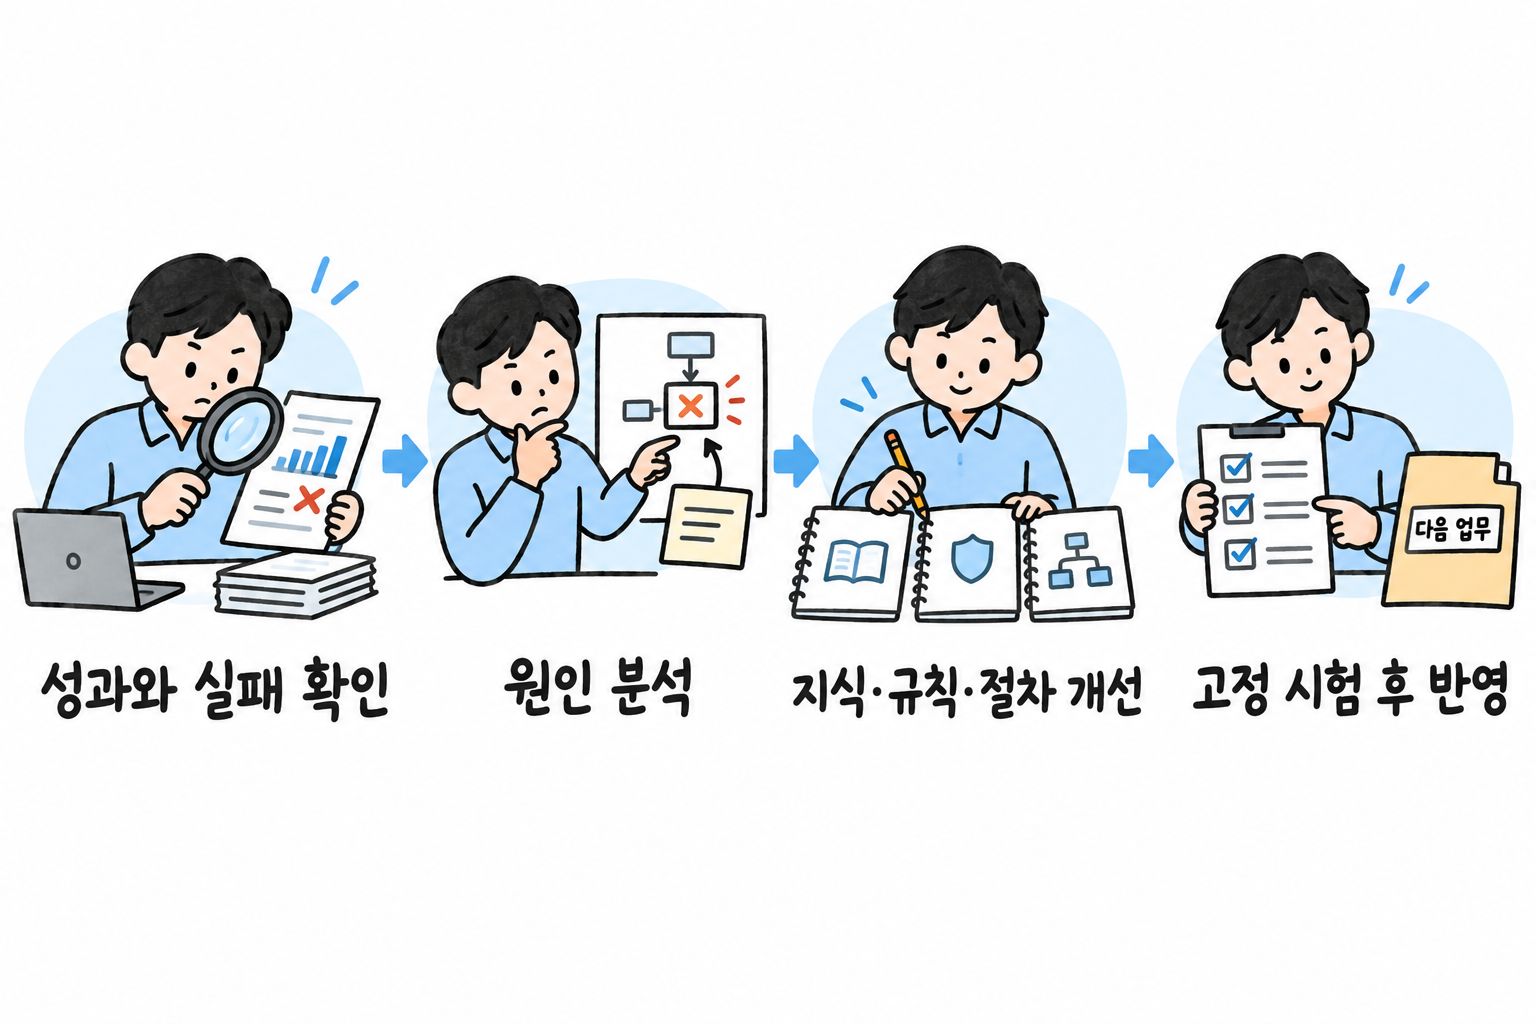
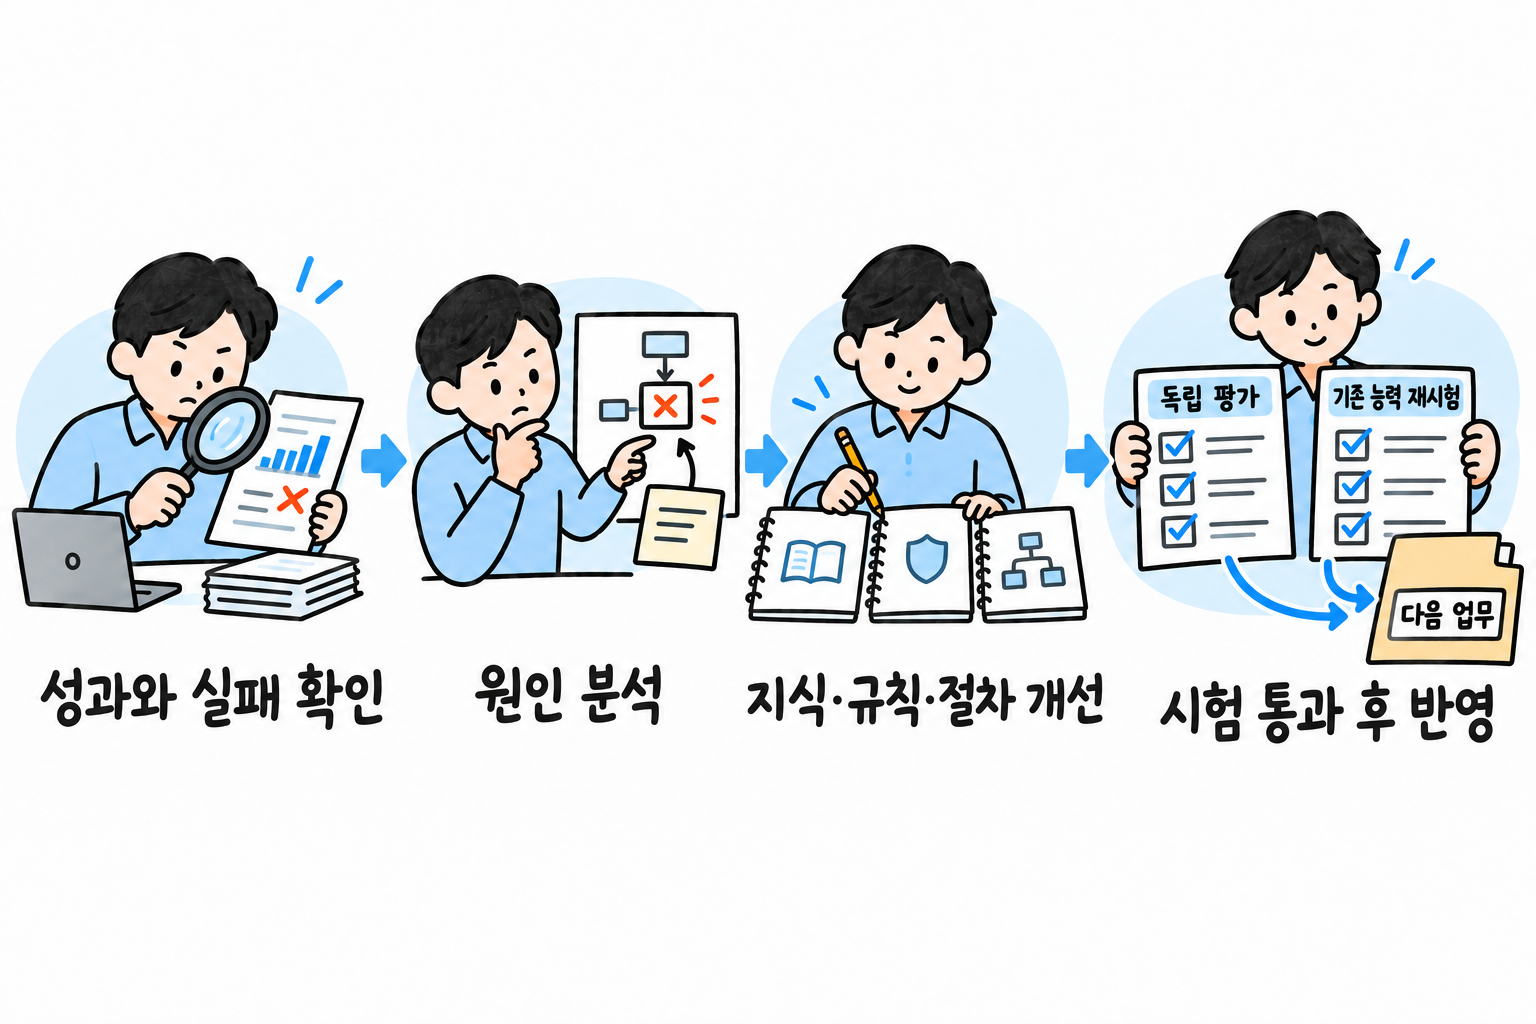
docs/images/expert-definition/learning-improvement.png 외 8개 수정

Changed region(s): [[0.0, 0.1875, 1.0, 0.7188]]

diff --git a/docs/images/material-confirmed/생성-프롬프트.md b/docs/images/material-confirmed/생성-프롬프트.md
@@ -6,6 +6,8 @@
 
 공통 화풍과 아래 개별 장면을 합쳐 생성했다. 실제 입력 전문, 원본 경로, 수정 이력은 [manifest.json](manifest.json)에 있다.
 
+각 항목의 장면 설명은 최초 생성 기록이며, 뒤에 수정 프롬프트가 있으면 마지막 수정본이 현재 적용본이다.
+
 ## 공통 화풍
 
 한국어 업무 문서의 설명 일러스트. 가로 3:2, 1536×1024. 기존 프로젝트와 동일한 친근한 일본 설명 일러스트풍의 정교한 손그림. 굵지만 부드러운 짙은 차콜 윤곽선, 검은 머리의 성인 업무 담당자, 하늘색 재킷, 흰 옷, 밝은 하늘색과 연한 노랑 소품. 모서리까지 불투명 흰 배경. 단순하고 넉넉한 여백, 장면별로 핵심 행동과 물건을 크게 보여 준다. 텍스트는 지정한 짧은 라벨만 크고 또렷한 검은 한국어 둥근 손글씨. 큰 상단 제목, 부제, 하단 표어, 번호, 장문, 영어 장식, 워터마크, 로고 없음. 문서 속 잔글씨는 회색 선. 사진·3D·네온·보라·복잡한 장식 금지. 인물은 두 팔 두 손만, 소품과 글자 잘림 없음. 주어진 본문의 핵심 관계에 정확할 것.
@@ -96,6 +98,10 @@
 
 주제: 자료의 시점·버전. 세 장면. 적용 시작을 나타내는 달력, 실제로 새 자료를 받은 뒤 기록하는 두 번째 달력, 오른쪽 과거 시점의 책장으로 돌아가 그때 알고 있던 판본만 꺼내는 담당자. 두 날짜가 다름을 위치 차이로 보여 주고 날짜 숫자 없음.
 이미지 속 문구는 다음 3개만 사용: "적용된 때", "알게 된 때", "당시 버전". 각 문구는 해당 장면 가까이에 크게 배치. 관계상 순서가 맞을 때만 작은 하늘색 화살표.
+
+### 2026-10-22 후속 수정
+
+첨부된 한국어 설명 일러스트를 편집한다. 기존의 흰 배경, 하늘색 재킷을 입은 검은 머리 성인 여성, 차콜 손그림, 연노랑 라벨과 3:2 화면 및 큼직한 글자를 그대로 유지. 핵심 수정: '적용된 때'와 '알게 된 때'는 순서가 아니라 서로 독립적으로 저장하는 두 시간 기준이다. 첫 장면과 두 번째 장면 사이의 화살표를 완전히 없앤다. 왼쪽과 가운데는 각각 별도의 달력과 문서를 확인하는 장면으로 유지하되, 라벨을 정확히 '적용 시점', '알게 된 시점'으로 바꾼다. 두 장면 아래에 같은 높이의 짧은 연결선을 내려 하나의 얇은 묶음선으로 모으고, 거기서 오른쪽의 버전 선택 장면으로만 작은 하늘색 화살표 한 개를 보낸다. 이 묶음선은 인물이나 글자를 가리지 않아야 하며 두 시간 기준을 함께 대조한다는 뜻이다. 오른쪽은 책장에서 당시 쓸 판본을 고르는 기존 인물과 '당시 버전' 라벨을 유지한다. 모든 달력은 숫자 없이 회색 칸과 강조칸으로 표현. 적용 시점이 항상 먼저이고 알게 된 시점이 항상 나중이라는 시간 순서나 번호를 만들지 않는다. 상단의 세 문구 외 읽을 수 있는 새 글자, 부제, 주석은 넣지 않는다. 인물의 손·얼굴과 기존 여백은 자연스럽게 유지한다. 1536x1024 불투명 흰 배경.
 
 ## 13. 규칙·기준 원문
 
@@ -268,6 +274,10 @@
 
 주제: 지시·의도 파악. 고객과 담당자가 대화하며 원하는 결과물 그림을 가리킨다. 가운데 접수표에 범위·기한을 그림으로 정리. 마지막 이미 정한 것은 체크하고 비어 있는 한 조건만 작은 물음표로 질문한다.
 이미지 속 문구는 다음 3개만 사용: "요청과 맥락", "맡은 범위", "필수 질문". 각 문구는 해당 장면 가까이에 크게 배치. 관계상 순서가 맞을 때만 작은 하늘색 화살표.
+
+### 2026-10-22 후속 수정
+
+첨부 한국어 설명 일러스트를 부분 수정한다. 기존 여성 의뢰자와 남성 담당자, 하늘색·연노랑·차콜 손그림 화풍, 흰 배경과 가로 세 장면 구성은 유지한다. '요청과 맥락', '맡은 범위' 두 라벨 및 그 아래 장면은 그대로 유지. 마지막 '필수 질문'이라는 제목을 없애고 '중요한 미확인만 질문'으로 바꾸되, 넉넉하게 두 줄로 '중요한 미확인만' / '질문'을 써서 크고 또렷하게 한다. 가운데에서 오른쪽으로 무조건 질문에 이르는 화살표는 없앤다. 오른쪽 영역의 체크리스트를 살려, 이미 확인한 세 항목의 초록 체크에는 작은 연결선이 위쪽의 노트북 작업 아이콘으로 이어지고 그 옆에 '확인된 일은 진행'이라고 명확하게 쓴다. 체크리스트의 맨 아래 중요한 미확인 한 항목만 노란 강조와 물음표로 표시하고, 담당자가 그 항목을 가리키며 짧은 질문 말풍선에 물음표 하나를 넣는다. 질문하는 조건과 이미 확인한 일을 진행하는 상태가 동시에 읽혀야 한다. 모든 자료를 다시 질문하거나 질문 답을 기다리느라 전체 업무가 멈추는 표현 금지. 기존 문서 속 장식 글은 회색 가로선 유지, 영어·숫자 추가 금지. 추가 문구는 '확인된 일은 진행' 하나만 사용. 1536x1024 불투명 흰 배경.
 
 ## 41. 대안·전략 판단
 
@@ -451,6 +461,10 @@
 
 주제: 관찰·측정. 측정 도구가 실제 물체를 재는 장면, 측정값이 단위·시각 아이콘과 함께 기록표로 이동, 담당자가 교정 기준과 측정 오차 범위를 대조. AI가 눈대중으로 숫자를 만드는 모습 금지.
 이미지 속 문구는 다음 3개만 사용: "장비·방법", "값·단위·시각", "오차 확인". 각 문구는 해당 장면 가까이에 크게 배치. 관계상 순서가 맞을 때만 작은 하늘색 화살표.
+
+### 2026-10-22 후속 수정
+
+첨부 일러스트를 같은 화풍으로 수정한다. 검은 머리 성인 여성과 하늘색 재킷, 차콜 손그림 윤곽, 연노랑 라벨, 불투명 흰 배경, 가로 세 장면 구성과 1536x1024 크기를 유지한다. AI 담당자는 현장에서 실물을 직접 재는 사람이 아니라 장비나 원래 시스템이 측정한 값을 받아 사용하는 역할이다. 캘리퍼스·측정 공구·금속 부품·실물 치수 도면을 모두 제거하고 모든 장면을 컴퓨터 업무로 바꾼다. 왼쪽: '측정값 받기'. 담당자가 노트북에서 외부 장비 또는 원래 시스템이 보내온 측정 기록을 받는다. 작은 센서/서버 아이콘에서 데이터 문서 카드가 화면으로 들어오는 화살표로 연결하고, 담당자는 키보드·마우스만 사용한다. 가운데: '단위·시각 기록'. 측정 원본 표와 단위 표식, 서로 구분된 두 시계 아이콘을 기록에 연결. 두 시계에만 작은 글자로 '측정 시각', '수신 시각'을 쓴다. 오른쪽: '신뢰성 확인'. 담당자가 화면의 측정 기록과 교정 확인 문서, 불확도 범위를 나타내는 점과 양옆 막대, 장비 상태를 대조한다. 불확도 범위와 업무 허용 범위를 같은 것으로 그리지 않는다. 모든 숫자와 임의의 구체적인 이름·시간·치수는 회색 가로선으로 표현한다. 물리적 측정을 새로 수행하거나 눈으로 추정한 숫자를 만드는 장면은 없다. 세 장면 사이에는 작은 하늘색 화살표. 정확한 문구 다섯 개만: '측정값 받기', '단위·시각 기록', '신뢰성 확인', '측정 시각', '수신 시각'. 자연스러운 두 팔과 두 손, 넉넉한 여백, 화면과 글자 잘림 없음.
 
 ## 67. 실험
 

diff --git a/docs/images/expert-definition/생성-프롬프트.md b/docs/images/expert-definition/생성-프롬프트.md
@@ -132,9 +132,9 @@
 ## 학습·개선
 
 - 파일: [learning-improvement.png](learning-improvement.png)
-- 대체 설명: 실제 성과와 실패를 확인하고 원인을 분석한 뒤 지식·규칙·절차를 개선하고, 고정 시험을 통과한 변경을 다음 업무에 반영하는 개선 과정.
+- 대체 설명: 성과와 실패의 원인을 분석해 지식·규칙·절차를 개선하고, 독립 평가와 기존 능력 재시험을 통과한 변경을 다음 업무에 반영한다.
 
-### 최종 생성 프롬프트
+### 최초 생성 프롬프트 (후속 수정 전)
 
 ```text
 용도: infographic-diagram. 한국어 문서 '전문가 에이전트 정의.md' 본문에 들어갈 설명용 삽화.
@@ -148,3 +148,7 @@
 네 번째: 담당자가 고정된 시험 항목이 있는 체크리스트로 바뀐 내용과 기존 기능을 확인하고, 옆에 다음 업무 파일을 준비해 둔다. 아래 "고정 시험 후 반영".
 마지막은 시험을 거쳐 적용한다는 뜻이며 실패한 변경까지 자동 적용하지 않는 구도. 모델의 머리를 열어 뇌를 바꾸거나 자동으로 모델 가중치가 업데이트된다는 그림을 넣지 않는다. 지정한 네 문구만 크게 정확히 쓴다.
 ```
+
+### 2026-10-22 수정 프롬프트
+
+첨부 설명 일러스트를 부분 수정한다. 네 장면의 구성, 담당자, 표정, 하늘색 옷과 배경, 차콜 손그림 선, 불투명 흰 배경을 유지한다. 앞의 세 장면과 '성과와 실패 확인', '원인 분석', '지식·규칙·절차 개선' 문구는 변경하지 않는다. 마지막 장면의 '고정 시험 후 반영' 문구는 완전히 제거하고 아래 라벨을 '시험 통과 후 반영'으로 바꾼다. 마지막 담당자가 들고 있는 단일 체크리스트를 서로 구분된 체크리스트 두 장으로 바꾸고 각각 큰 짧은 라벨 '독립 평가', '기존 능력 재시험'을 넣는다. 두 목록 모두 각각의 체크 표시로 통과한 것이 보이고, 그 두 목록에서 작은 화살표가 '다음 업무' 폴더로 이어지게 한다. 기존 능력 확인과 처음 보는 자료의 독립 평가를 함께 통과한 뒤 적용한다는 뜻이어야 한다. 한 시험 자료로 반복 수정하고 그 점수를 독립 평가라고 부르는 표현은 없다. 바꿀 부분이 충분히 읽히도록 마지막 장면 영역을 조금 넓혀도 되지만 앞 세 장면의 핵심·문구·화풍은 유지하고 전체는 1536x1024 3:2. 긴 설명문, 제목, 번호, 워터마크는 추가하지 않는다. 모든 글자가 화면 안에 들어오고 겹치지 않게 한다.

diff --git a/docs/images/expert-definition/계통별-재료-생성-프롬프트.md b/docs/images/expert-definition/계통별-재료-생성-프롬프트.md
@@ -203,9 +203,9 @@
 ## 학습·개선
 
 - 파일: [learning-improvement.png](learning-improvement.png)
-- 대체 설명: 실제 성과와 실패를 확인하고 원인을 분석해 지식·규칙·절차를 개선한다. 개선 효과와 기존 능력을 시험한 뒤 다음 업무에 반영한다.
+- 대체 설명: 성과와 실패의 원인을 분석해 지식·규칙·절차를 개선하고, 독립 평가와 기존 능력 재시험을 통과한 변경을 다음 업무에 반영한다.
 
-기존 [학습·개선 생성 기록](생성-프롬프트.md#학습개선)의 그림을 변경 없이 사용했다.
+2026-10-22에 독립 평가와 기존 능력 재시험을 구분하도록 수정했다. 실제 편집 프롬프트는 [학습·개선 생성 기록](생성-프롬프트.md#학습개선)에 있다.
 
 ## 확인
 
